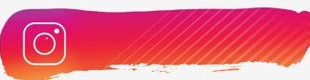
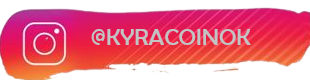
actualizacion redes

diff --git a/paginas/redes.html b/paginas/redes.html
@@ -54,7 +54,7 @@
     <section class="Section__redes">
         <div class="row container-fluid">
             <div class="container-fluid col-lg-6 col-md-6 col-sm-12">
-                <h1>Nuestras redes</h1>
+                <h1 class="text-primary text-center mt-5">Nuestras redes</h1>
             
                 <P class="fs-2">En nuestras Redes sociales podras encontrar mucha mas informacion del token<br>
                 ademas de recibir siempre las ultimas actualizaciones directo a tu celular.<br>
@@ -62,77 +62,90 @@
                 </P>
             </div>
         
-            <div class="col-lg-6 col-md-6 col-sm-12">
-                <div class="div__redes">   
-                    <div class=" position-relative d-inline-block">
-                        <a  class="position-absolute " href="http://facebook.com" target="_blank"> kyracoin</div></a>
-                        <img src="../imagenes/redes-facebok.png">
-                    </div>
-                <div class="div__redes">
-                    <div class="position-relative d-inline-block">
+            <div class="col-lg-6 col-md-6 col-sm-12 text-center mt-5 ">
+                <div class="row">
+                    <div class="div__redes mb-5 ">   
                         <div>
-                            <a class=" position-absolute" href="http://instagram.com" target="_blank"<p>@kyracoin</p></div></a>
+                            <a  class=" text-decoration-none text-light" href="http://facebook.com" target="_blank"></div>
+                            <img class="img-fluid" src="../imagenes/redes-facebok.png"></4>
                         </div>
-                    <img src="../imagenes/redes-instagram.png">
-                </div>
-                <div class="div__redes">
-                    <div class="position-relative d-inline-block">
-                        <a class= "position-absolute" href="http://twitter.com" target="_blank"><p>@kyracoinOK</p></div></a>
-                        <img src="../imagenes/redes-twitter.png">  
-                </div>
-                <div class="div__redes">
-                    <div class="texto__redes position-relative d-inline-block">
-                        <a class=" position-absolute infoRedes"href="https://web.whatsapp.com/"><p>11-69854469</p></div></a>
-                        <img src="../imagenes/redes-whatsapp.png">
-                
+                    <div class="div__redes mb-5 ">
+                        <div>
+                            <div>
+                                <a class="text-decoration-none text-light" href="http://instagram.com" target="_blank"></div>
+                            </div>
+                            <img class="img-fluid" src="../imagenes/redes-instagram.png"></a>
+                        </div>
+                    </div>
+                <div class="row">
+                    <div class="div__redes mb-5 ">
+                        <div>
+                            <a class="text-decoration-none text-light" href="http://twitter.com" target="_blank"></div>
+                            <img class="img-fluid" src="../imagenes/redes-twitter.png"></a>
+                        </div>
+                    </div>
+                    <div class="div__redes mb-5 ">
+                        <div class="texto__redes">
+                            <a class="infoRedes text-decoration-none text-light"href="https://web.whatsapp.com/" target="_blank"></div>
+                            <img class="img-fluid" src="../imagenes/redes-whatsapp.png"></a>
+                        </div>
+                    </div>
                 </div>
             </div>
-        </div>
     </section>
    <!--  </section>  -->  
 <!-- inicio formulario de contacto -->
-<div class="container-fluid row">
-    <form class="border">
-        <div class="row align-items-stretch mb-5">      
-            <fieldset class="form">
-            <legend>CONTACTANOS</legend>
+<section class="page-section container" id="contact">
+    <div class="container">
+        <div class="text-center">
+            <h2 class="header"> CONTACTANOS</h2>
+        </div>
+        <form id="contactForm">
+            <div class="row align-items-stretch mb-5">
                 <div class="col-md-6">
                     <div class="form-group">
-                     
-                        <div class="form-check form-check-inline">
-                            <input class="form-check-input" type="checkbox" id="inlineCheckbox1" value="option1">
-                            <label class="form-check-label" for="inlineCheckbox1">HOMBRE</label>
-                          </div>
-                          <div class="form-check form-check-inline">
-                            <input class="form-check-input" type="checkbox" id="inlineCheckbox2" value="option2">
-                            <label class="form-check-label" for="inlineCheckbox2">MUJER</label>
-                          </div>
-                    
-                    <input class="form-control" type="text" id="name" name="name" placeholder="Nombre Completo" required/><br><br>
-
-                    <input class="form-control" type="email" id="email" name="email" placeholder=" e-mail nombre@servidor.com" required/><br><br>
-                </div>
-                    <div class="col-md-6">
-                        <div class="form-group form-group-textarea mb-md-0">
-                           
-                            <textarea class="form-control" id="message" placeholder="Your Message *" data-sb-validations="required"></textarea>
-                            <div class="invalid-feedback">A message is required.</div>
-                        </div>
+                        <!-- Name input-->
+                        <input class="form-control" id="name" type="text" placeholder="Nombre *" required/>
+                        
                     </div>
-                        <h3>¿Desea recibir nuestro newsletter? <input type="checkbox" name="newsletter" value="1"/></h3>
-                    <h3>Crypto moneda favorita
-                    <select class="Select__coin" name="coin">
+                    <div class="form-group">
+                        <!-- Email address input-->
+                        <input class="form-control" id="name" type="text" placeholder="Apellido *" required />
+                    
+                    </div>
+                    <div class="form-group mb-md-0">
+                        <!-- Phone number input-->
+                        <input class="form-control" id="email" type="email" placeholder="Email *" required />
+                        
+                    </div>
+                </div>
+                <div class="col-md-6">
+                    <div class="form-group form-group-textarea mb-md-0">
+                        <!-- Message input-->
+                        <textarea class="form-control" id="message" placeholder="Mensaje *" required ></textarea>
+                        
+                    </div>
+                </div>
+            </div>
+            <div class="form-check ms-5">
+                <input class="form-check-input" type="checkbox" value="" id="invalidCheck" required>
+                <label class="form-check-label" for="invalidCheck"><p class="fs-3 text-center">¿Desea recibir nuestro newsletter?</p></label>
+                    
+                <p class="fs-3">Sobre que moneda desea recibir mas informacion
+                    <select class="Select__coin mb-4" name="coin">
                         <option value="btc">Bitcoin</option>
                         <option value="eth">Ethereum</option>
                         <option value="ftm">Fantom</option>
                         <option value="kyra">Kyra</option>
-                    </select></h3>
-                    <input class="input__form" type="submit" value="enviar"/>
-                    <input class="input__form" type="reset" value="borrar datos"/>
-                </div>
-         </fieldset>
-    </form>
-</div>
+                    </select></p>
+                    <div class="text-center pb-5">
+                        <input class="input__form btn btn-secondary btn-lg" type="submit" value="ENVIAR"/>
+                        <input class="input__form btn btn-secondary btn-lg" type="reset" value="RESET"/>
+                    </div>
+            </div>
+        </form>   
+    </div>
+</section>
 <!-- fin formulario de contacto-->     
 <!-- inicio footer -->
 <hr>

diff --git a/paginas/comprarkyracoin.html b/paginas/comprarkyracoin.html
@@ -54,30 +54,32 @@
     
     <div class="row text-center container-fluid">
     <ol class="col-lg-6 container-fluid">
-        <li class="mb-3 fw-bold fs-2">Crear una billetera</li>
+        <li class="mb-3 fw-bold fs-2 text-start">Crear una billetera</li>
         <ul>
-            <li class=" listcompra list-group-item shadow-lg p-3 mb-5">En google chrome visite metamask.io para descargar la extension y configurar una billetera.<br>
+            <li class=" text-white-50 bg-dark listcompra list-group-item shadow-lg p-3 mb-5">En google chrome visite metamask.io para descargar la extension y configurar una billetera.<br>
             Los usuarios de android e iOS puede descargar la aplicacion metamask en su telefono.</li>
         </ul><br>
-        <li class="mb-3 fw-bold fs-2">Envie $bnb a su billetera BSC</li>
+        <li class="mb-3 fw-bold fs-2 text-start">Envie $bnb a su billetera BSC</li>
         <ul>
-            <li class=" listcompra list-group-item shadow-lg p-3 mb-5">Compre $bnb en binance exchange y tranfieralo a traves de bep-20.<br>
+            <li class=" text-white-50 bg-dark listcompra list-group-item shadow-lg p-3 mb-5">Compre $bnb en binance exchange y tranfieralo a traves de bep-20.<br>
             a la direccion de su billetera binance smart chain (BSC).</li>
         </ul><br>
-        <li class="mb-3 fw-bold fs-2">Comprar en Pancakeswap</li>
+        <li class="mb-3 fw-bold fs-2 text-start">Comprar en Pancakeswap</li>
         <ul>
-            <li clasS=" listcompra list-group-item shadow-lg p-3 mb-5">Conecte su billetera a pancakeswap a traves del enlase en la imagen.<br>
+            <li clasS=" text-white-50 bg-dark listcompra list-group-item shadow-lg p-3 mb-5">Conecte su billetera a pancakeswap a traves del enlase en la imagen.<br>
             configure su deslizamiento en un 8% o mas y luedo haga click en intercambiar.</li>
         </ul><br>
     </ol>
      
-    <div class=" mt-lg-5  container-fluid div__swap row col-lg-6">
+    <div class="mt-5 container-fluid div__swap row col-lg-6">
       <div>
+        <div clasS="fs-4"> <p>Comprar por <span class="text-primary">PancakeSwap</span></p></div>
         <a  href="https://pancakeswap.finance/" target="_blank">
-        <img width="300px" class="mt-lg-5 boton swap__pancake img-fluid btn btn-outline-danger" "  src="../imagenes/pancake swap.png">
+        <img width="300px" class=" boton swap__pancake img-fluid btn btn-outline-danger" "  src="../imagenes/pancake swap.png">
         </a>
       </div>
-      <div>
+      <div class="mt-md-5">
+        <div class="fs-4"> Comprar por <span class="text-warning">ApeSwap </span></div>
       <a  href="https://app.apeswap.finance/swap"target="_blank">
         <img width="300px" class="boton swap__ape img-fluid btn btn-outline-danger"" src="../imagenes/Apeswap.png">
         </a>

diff --git a/css/style.css b/css/style.css
@@ -110,4 +110,28 @@ body{
       font-weight: bold;
   }
 
-  /* stylo redes */
+  /* stylo CONTACTO */
+  section#contact {
+    background-color: #212529;
+    background-position: center;
+  }
+  section#contact .header {
+    color: #0D6EFD;
+  }
+  section#contact form#contactForm .form-group {
+    margin-bottom: 1.5rem;
+  }
+  section#contact form#contactForm .form-group input,
+  section#contact form#contactForm .form-group textarea {
+    padding: 1.25rem;
+  }
+  section#contact form#contactForm .form-group input.form-control {
+    height: auto;
+  }
+  section#contact form#contactForm .form-group-textarea {
+    height: 100%;
+  }
+  section#contact form#contactForm .form-group-textarea textarea {
+    height: 100%;
+    min-height: 10rem;
+  }
